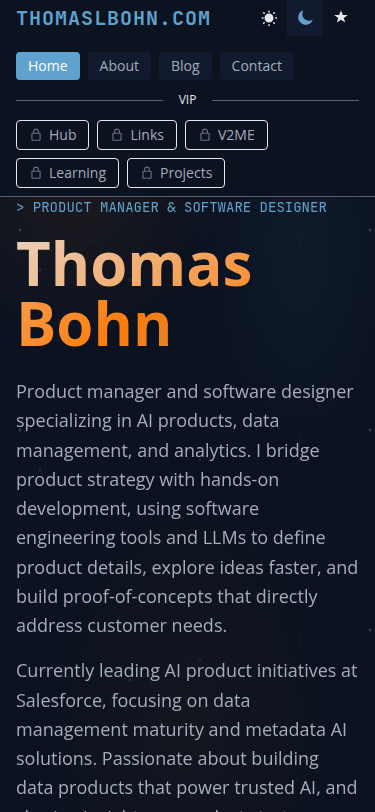
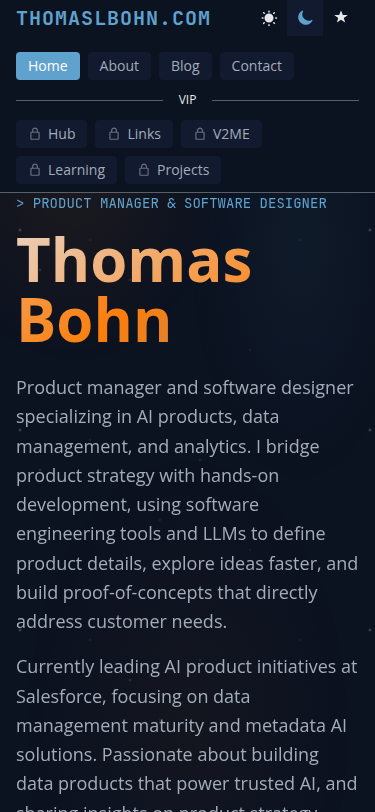
fix: Remove inconsistent border from VIP navigation buttons in mobile
- Removed border-border/50 from VIP nav items in mobile menu
- VIP buttons now match style of public nav buttons
- Consistent appearance in both light and dark modes
- Updated screenshots to reflect the fix

diff --git a/components/Header.tsx b/components/Header.tsx
@@ -265,7 +265,7 @@ export function Header() {
                     className={`group relative px-3 py-1 rounded text-sm transition-colors flex items-center gap-1.5 ${
                       isActive
                         ? 'bg-accent text-white'
-                        : 'bg-bg-secondary/70 text-text-secondary hover:bg-accent-orange hover:text-white border border-border/50'
+                        : 'bg-bg-secondary text-text-secondary hover:bg-accent-orange hover:text-white'
                     }`}
                     title="VIP Content - Login Required"
                   >
